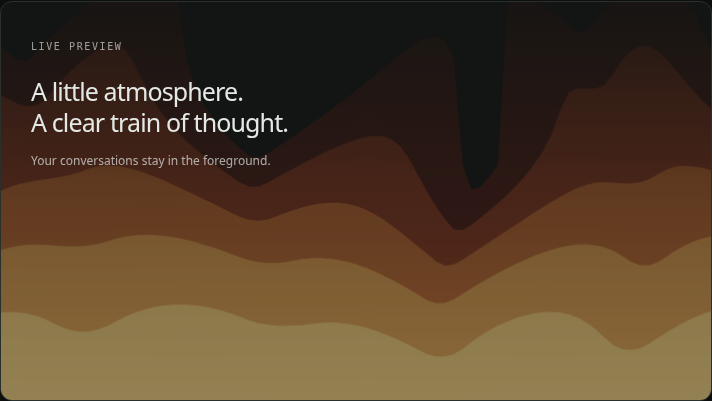
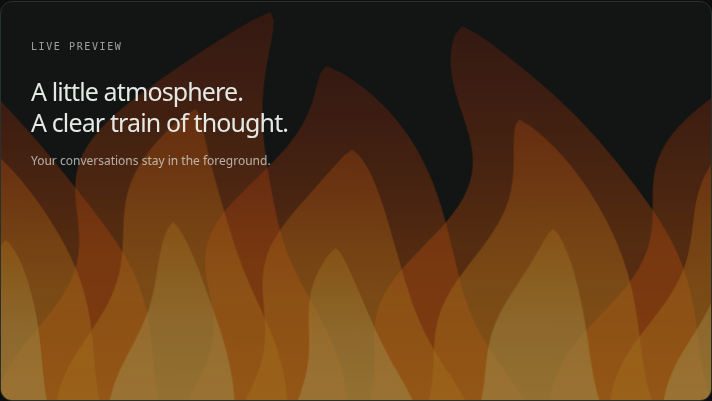
Reshape Fire as rooted warm flame tongues with curling tips

diff --git a/tests/fire.test.ts b/tests/fire.test.ts
@@ -1,58 +1,81 @@
 import { expect, it } from "vitest"
 import { createScene } from "../src/scenes"
-import { fireContours, fireLift, firePalette, FIRE_COLOR_CYCLE_SECONDS } from "../src/scenes-fire"
+import { fireFlame, fireLift, firePalette } from "../src/scenes-fire"
 import { drawing } from "./environment"
 
 const context = drawing as unknown as CanvasRenderingContext2D
 const gradients = () => drawing.createLinearGradient.mock.results.map(result => result.value.addColorStop.mock.calls)
 
-it("Fire carries its deformation upward and independently morphs its flame silhouettes", () => {
+it("Fire uses bottom-rooted tapered tongues with separate pointed tips, not horizontal wave bands", () => {
+  for (let flame = 0; flame < 5; flame++) for (let layer = 0; layer < 3; layer++) {
+    const shape = fireFlame(flame, 0, layer), root = shape[0], tip = shape.at(-1)!
+    expect(shape).toHaveLength(49)
+    expect(root.y).toBe(1.04)
+    expect(root.right - root.left).toBeGreaterThan(0.17)
+    expect(tip.left).toBe(tip.right)
+    expect(tip.y).toBeLessThan(root.y - 0.4)
+    expect(shape[40].right - shape[40].left).toBeLessThan((root.right - root.left) * 0.35)
+    expect(shape.every((section, index) => section.left <= section.right && (!index || section.y < shape[index - 1].y))).toBe(true)
+    if (layer) expect(tip.y).toBeGreaterThan(fireFlame(flame, 0, layer - 1).at(-1)!.y)
+  }
+})
+
+it("Fire's deformation travels upward and curls sideways without bobbing its entire silhouette", () => {
   for (const height of [0.1, 0.4, 0.8]) {
     expect(fireLift(height + 0.26 / 8 * 2, 7)).toBeCloseTo(fireLift(height, 5), 10)
   }
-  const before = fireContours(0), after = fireContours(10)
-  expect(after).not.toEqual(before)
-  const shifts = before[0].map((value, x) => Math.round((after[0][x] - value) * 1000))
-  expect(new Set(shifts).size).toBeGreaterThan(10)
-})
-
-it("Fire has broad bounded contours covering most of the canvas throughout its color cycle", () => {
-  for (let time = 0; time <= FIRE_COLOR_CYCLE_SECONDS; time += 5) {
-    const contours = fireContours(time)
-    expect(contours).toHaveLength(5)
-    const outer = contours[0]
-    expect(1 - outer.reduce((sum, y) => sum + y, 0) / outer.length).toBeGreaterThan(0.75)
-    expect(Math.min(...outer)).toBeLessThan(0.05)
-    for (const contour of contours) {
-      expect(contour).toHaveLength(81)
-      expect([...contour].every(y => Number.isFinite(y) && y >= 0 && y <= 1)).toBe(true)
-    }
+  for (let flame = 0; flame < 5; flame++) {
+    const before = fireFlame(flame, 0), after = fireFlame(flame, 10)
+    expect(after.map(section => section.y)).toEqual(before.map(section => section.y))
+    expect(after[0]).toEqual(before[0])
+    expect(after.at(-1)!.left).not.toBe(before.at(-1)!.left)
+    expect(after[24].right - after[24].left).not.toBe(before[24].right - before[24].left)
   }
 })
 
-it("Fire slowly cycles warm to cool as one narrow palette, never mixed warm/cool flames", () => {
-  expect(FIRE_COLOR_CYCLE_SECONDS).toBe(240)
+it("Fire's flame shapes occupy most of the canvas while leaving natural gaps between their tips", () => {
+  for (const time of [0, 10, 30, 60, 120, 240]) {
+    const shapes = Array.from({ length: 5 }, (_, flame) => fireFlame(flame, time))
+    let coverage = 0
+    for (let row = 0; row < 100; row++) {
+      const y = (row + 0.5) / 100
+      const spans = shapes.flatMap(shape => {
+        const index = shape.findIndex(section => section.y <= y)
+        if (index <= 0) return []
+        const a = shape[index - 1], b = shape[index], t = (a.y - y) / (a.y - b.y)
+        return [{ left: Math.max(0, a.left + (b.left - a.left) * t), right: Math.min(1, a.right + (b.right - a.right) * t) }]
+      }).sort((a, b) => a.left - b.left)
+      let end = 0
+      for (const span of spans) {
+        coverage += Math.max(0, span.right - Math.max(end, span.left)) / 100
+        end = Math.max(end, span.right)
+      }
+    }
+    expect(coverage).toBeGreaterThan(0.6)
+    expect(coverage).toBeLessThan(0.95)
+    expect(Math.min(...shapes.map(shape => shape.at(-1)!.y))).toBeLessThan(0.03)
+  }
+})
+
+it("Fire stays red/orange/yellow, with contrasting light/dark palettes and no cool color cycle", () => {
   for (const appearance of ["dark", "light"] as const) {
-    const warm = firePalette(0, appearance), cool = firePalette(120, appearance)
-    expect(warm.map(color => color.hue)).toEqual([5, 18, 32, 43, 55])
-    expect(cool.map(color => color.hue)).toEqual([165, 178, 192, 203, 215])
-    expect(firePalette(240, appearance)).toEqual(warm)
-    for (let time = 0; time < 240; time++) {
-      const hues = firePalette(time, appearance).map(color => color.hue)
-      expect(Math.max(...hues) - Math.min(...hues)).toBeCloseTo(50, 10)
-      expect(!(hues.some(hue => hue < 60) && hues.some(hue => hue >= 150))).toBe(true)
-      expect(Math.abs(firePalette(time + 0.1, appearance)[0].hue - hues[0])).toBeLessThan(0.21)
+    const palette = firePalette(appearance)
+    expect(palette).toHaveLength(4)
+    for (const [red, green, blue] of palette) {
+      expect(red).toBeGreaterThan(green)
+      expect(green).toBeGreaterThan(blue)
+      expect(red).toBeGreaterThan(blue * 1.8)
     }
   }
-  expect(firePalette(0, "light")).not.toEqual(firePalette(0, "dark"))
+  expect(firePalette("light")).not.toEqual(firePalette("dark"))
 })
 
-it("Fire uses only five smooth vector-gradient fills, with stable pause/theme/resize repainting", () => {
+it("Fire uses bounded smooth gradient geometry and preserves paused shapes across theme/resize changes", () => {
   const scene = createScene("fire")
   scene.resize(800, 600); scene.draw(context, 0.1, 1, "dark")
   const dark = gradients(), contour = drawing.lineTo.mock.calls.map(call => [...call])
-  expect(dark).toHaveLength(5)
-  expect(drawing.fill).toHaveBeenCalledTimes(5)
+  expect(dark).toHaveLength(15)
+  expect(drawing.fill).toHaveBeenCalledTimes(15)
   expect(drawing.drawImage).not.toHaveBeenCalled()
   expect(drawing.fillRect).not.toHaveBeenCalled()
   drawing.createLinearGradient.mockClear(); drawing.lineTo.mockClear()
@@ -68,8 +91,8 @@ it("Fire uses only five smooth vector-gradient fills, with stable pause/theme/re
   for (const [width, height] of [[1200, 600], [390, 844], [7680, 4320], [1, 1]]) {
     drawing.lineTo.mockClear()
     scene.resize(width, height); scene.draw(context, 0, 1)
-    expect(drawing.lineTo).toHaveBeenCalledTimes(410)
-    expect(drawing.lineTo.mock.calls.every(([x, y]) => x >= 0 && x <= width && y >= 0 && y <= height)).toBe(true)
+    expect(drawing.lineTo).toHaveBeenCalledTimes(1440)
+    expect(drawing.lineTo.mock.calls.every(([x, y]) => Number.isFinite(x) && x >= -width * 0.4 && x <= width * 1.4 && y >= 0 && y <= height * 1.04)).toBe(true)
   }
   scene.resize(800, 600); drawing.lineTo.mockClear(); scene.draw(context, 0, 1, "dark")
   expect(drawing.lineTo.mock.calls).toEqual(contour)

diff --git a/src/scenes-fire.ts b/src/scenes-fire.ts
@@ -1,80 +1,57 @@
 import { AmbientScene, type Appearance } from "./scene"
 
-export const FIRE_COLOR_CYCLE_SECONDS = 240
-const columns = 80, rows = 64, bands = 5
+const steps = 48
+const heights = [0.92, 1.015, 0.88, 0.98, 0.94]
+const layers = [{ height: 1, width: 1 }, { height: 0.76, width: 0.66 }, { height: 0.48, width: 0.36 }]
 
-/** One coordinated hue family at a time, never warm and cool flames together. */
-export function firePalette(time: number, appearance: Appearance) {
-  const phase = ((time % FIRE_COLOR_CYCLE_SECONDS) + FIRE_COLOR_CYCLE_SECONDS) % FIRE_COLOR_CYCLE_SECONDS
-  const cool = (1 - Math.cos(phase / FIRE_COLOR_CYCLE_SECONDS * Math.PI * 2)) / 2
-  const center = 25 + cool * 160
-  return [-20, -7, 7, 18, 30].map((offset, band) => ({
-    hue: center + offset,
-    saturation: appearance === "light" ? 58 : 68,
-    lightness: (appearance === "light" ? 34 : 36) + band * (appearance === "light" ? 5 : 8),
-  }))
+/** Fixed flame colors, never a hue wheel: red edges, orange bodies, yellow cores. */
+export function firePalette(appearance: Appearance) {
+  return appearance === "dark"
+    ? [[228, 53, 17], [250, 102, 14], [255, 164, 34], [255, 214, 109]] as const
+    : [[181, 48, 16], [205, 79, 10], [218, 129, 16], [210, 165, 42]] as const
 }
 
-/** Features move toward increasing height, i.e. up from the canvas bottom. */
-export function fireLift(height: number, time: number) {
-  return Math.sin(height * 8 - time * 0.26)
+/** A slow deformation travelling upwards, not a whole silhouette bobbing vertically. */
+export function fireLift(height: number, time: number, phase = 0) {
+  return Math.sin(height * 8 - time * 0.26 + phase)
 }
 
-/** Bounded contour sampling preserves the broad morphing silhouettes without a pixel grid. */
-export function fireContours(time: number) {
-  const contours = Array.from({ length: bands }, () => new Float64Array(columns + 1).fill(1))
-  const previous = new Float64Array(columns + 1)
-  const tongues = Array.from({ length: 5 }, (_, i) => ({
-    center: -0.02 + i * 0.26,
-    height: 1.02 + Math.sin(i * 2.1 + time * 0.09) * 0.12,
-    width: 0.23 + Math.sin(i * 1.7 - time * 0.07) * 0.035,
-    phase: i * 1.9,
-  }))
-  const row = tongues.map(() => ({ center: 0, width: 0, heat: 0 }))
-  for (let y = 0; y <= rows; y++) {
-    const rise = 1 - y / rows, lift = fireLift(rise, time)
-    for (let i = 0; i < tongues.length; i++) {
-      const tongue = tongues[i]
-      row[i].center = tongue.center + rise * (Math.sin(rise * 4 - time * 0.12 + tongue.phase) * 0.16
-        + Math.sin(rise * 7 - time * 0.19 + tongue.phase) * 0.035)
-      row[i].width = tongue.width * (1 - rise * 0.68)
-      row[i].heat = (tongue.height - rise) / tongue.height + lift * 0.045
-    }
-    for (let x = 0; x <= columns; x++) {
-      let heat = -1
-      for (const tongue of row) {
-        const distance = (x / columns - tongue.center) / tongue.width
-        const next = tongue.heat - distance * distance * 0.22
-        const blend = Math.max(0, 0.1 - Math.abs(heat - next)) / 0.1
-        heat = Math.max(heat, next) + blend * blend * 0.025
-      }
-      for (let band = 0; band < bands; band++) {
-        const level = (band + 0.5) / bands - 0.07
-        if (contours[band][x] !== 1 || heat < level) continue
-        contours[band][x] = y === 0 ? 0 : (y - 1 + (level - previous[x]) / (heat - previous[x])) / rows
-      }
-      previous[x] = heat
-    }
-  }
-  return contours
+export interface FlameSection { y: number; left: number; right: number }
+
+/** Bottom-rooted, tapering ribbons. Both sides meet at a sideways-curling pointed tip. */
+export function fireFlame(index: number, time: number, layer = 0): FlameSection[] {
+  const shape = layers[layer], phase = index * 1.93, root = -0.02 + index * 0.26
+  return Array.from({ length: steps + 1 }, (_, step) => {
+    const progress = step / steps, rise = progress * shape.height
+    const y = 1.04 - heights[index] * rise
+    const flow = fireLift(1.04 - y, time, phase)
+    const center = root + Math.sin(phase + time * 0.085) * rise ** 1.8 * 0.12
+      + Math.sin(rise * 5 - time * 0.2 + phase) * rise * 0.065
+    const width = 0.25 * shape.width * (1 - progress) ** 0.72
+      * (1 + flow * Math.sin(progress * Math.PI) * 0.16)
+    const asymmetry = flow * Math.sin(progress * Math.PI) * 0.08
+    return { y, left: center - width * (1 + asymmetry), right: center + width * (1 - asymmetry) }
+  })
 }
 
 export class Fire extends AmbientScene {
   protected paint(ctx: CanvasRenderingContext2D) {
-    const contours = fireContours(this.time), palette = firePalette(this.time, this.appearance)
-    // Like Aurora: large translucent gradient bands, no raster, stipple, or noise.
-    ctx.globalCompositeOperation = this.appearance === "dark" ? "screen" : "source-over"
-    for (let band = 0; band < contours.length; band++) {
-      const { hue, saturation, lightness } = palette[band]
-      const color = (alpha: number) => `hsla(${hue}, ${saturation}%, ${lightness}%, ${alpha})`
-      const gradient = ctx.createLinearGradient(0, this.height, 0, 0)
-      gradient.addColorStop(0, color(0.5))
-      gradient.addColorStop(0.55, color(0.32))
-      gradient.addColorStop(1, color(0.08))
+    const palette = firePalette(this.appearance)
+    // Independent nested flame tongues, not filled horizontal height-map contours.
+    // Source-over preserves reds/oranges instead of bleaching overlapping flames.
+    ctx.globalCompositeOperation = "source-over"
+    for (let layer = 0; layer < layers.length; layer++) for (let flame = 0; flame < heights.length; flame++) {
+      const sections = fireFlame(flame, this.time, layer), tip = sections.at(-1)!
+      const gradient = ctx.createLinearGradient(0, tip.y * this.height, 0, this.height * 1.04)
+      const color = (index: number, alpha: number) => `rgba(${palette[index].join(", ")}, ${alpha})`
+      gradient.addColorStop(0, color(layer, layer === 0 ? 0.28 : 0.38))
+      gradient.addColorStop(0.55, color(layer + 1, 0.48))
+      gradient.addColorStop(1, color(layer + 1, 0.58))
       ctx.fillStyle = gradient
-      ctx.beginPath(); ctx.moveTo(0, this.height)
-      for (let x = 0; x <= columns; x++) ctx.lineTo(x / columns * this.width, contours[band][x] * this.height)
-      ctx.lineTo(this.width, this.height); ctx.closePath(); ctx.fill()
+      ctx.beginPath(); ctx.moveTo(sections[0].left * this.width, sections[0].y * this.height)
+      for (let step = 1; step <= steps; step++) ctx.lineTo(sections[step].left * this.width, sections[step].y * this.height)
+      for (let step = steps - 1; step >= 0; step--) ctx.lineTo(sections[step].right * this.width, sections[step].y * this.height)
+      ctx.closePath(); ctx.fill()
     }
   }
 }

diff --git a/src/gui.tsx b/src/gui.tsx
@@ -188,7 +188,7 @@ export default Plugin.define({
     ctx.add(SettingsPage, {
       id: "wallpaper", title: "Conversation wallpaper", icon: "settings-gear",
       entries: [
-        { id: "background", title: "Wallpaper collection and uploaded images", keywords: "matrix rain clouds fireflies starfield aurora meteors night sky balls blockfall disco maze pixel train aquarium pond cardiogram river life plaza people constellations glass ocean embers coast boats orbits leaves contours tremor polygraph waveform earthquake rainbow color spectrum hue timestamp fire flame warm cool wallpaper gif animation dimming pause" },
+        { id: "background", title: "Wallpaper collection and uploaded images", keywords: "matrix rain clouds fireflies starfield aurora meteors night sky balls blockfall disco maze pixel train aquarium pond cardiogram river life plaza people constellations glass ocean embers coast boats orbits leaves contours tremor polygraph waveform earthquake rainbow color spectrum hue timestamp fire flame warm red orange yellow wallpaper gif animation dimming pause" },
       ],
       render: () => <Settings />,
     })

diff --git a/src/scenes.ts b/src/scenes.ts
@@ -45,7 +45,7 @@ export const collection: ReadonlyArray<{ id: BuiltinMode; title: string; descrip
   { id: "tremor", title: "Tremor", description: "Seismic-style vibrations · Decorative only" },
   { id: "polygraph", title: "Polygraph", description: "Three wavering traces · Decorative only" },
   { id: "rainbow", title: "Rainbow", description: "Solid color · Slow full-spectrum cycle" },
-  { id: "fire", title: "Fire", description: "Morphing flames · Broad rising color bands" },
+  { id: "fire", title: "Fire", description: "Curling flames · Red, orange, yellow" },
 ]
 
 export function wallpaperName(mode: string): string {

diff --git a/README.md b/README.md
@@ -41,7 +41,7 @@ A small collection of animated atmospheres and local image backgrounds, behind c
 | **Tremor** | Seismograph-style vibrations alternating between bursts and quieter intervals |
 | **Polygraph** | Three independently wavering, instrument-style traces |
 | **Rainbow** | One solid background color following a timestamp-synchronized hue cycle |
-| **Fire** | Smooth morphing flame bands, slowly cycling from yellow/red to blue/green |
+| **Fire** | Broad red/orange flames with curling tips and yellow cores, slowly flowing upward |
 | **Image** | A still or animated local image, displayed as-is |
 
 Each built-in wallpaper defines its own movement; there is no direction control. Select one from the gallery,
@@ -72,18 +72,18 @@ OpenCode Desktop installation. Your theme, fonts, and dimming setting may look d
 
 | Dark theme | Light theme |
 | --- | --- |
-| ![Broad terracotta, orange, and amber flame bands behind readable text in dark mode](docs/images/fire-dark.png) | ![Soft terracotta and warm pastel flame bands behind dark text in light mode](docs/images/fire-light.png) |
+| ![Tall, tapering red and orange flame tongues with yellow cores behind readable text in dark mode](docs/images/fire-dark.png) | ![Warm flame tongues and curling pointed tips behind dark text in light mode](docs/images/fire-light.png) |
 
-**Fire** takes its cue from Aurora's broad, unhurried, morphing color bands—not a realistic fireplace. Large flame
-tongues rise from the bottom and reach through most of the available width and height. Their silhouettes stretch,
-bend, merge, and relax rather than scrolling a fixed picture. Smooth, translucent vector gradients use the same
-coloring approach as Aurora: no dithering, pixel texture, sparks, rapid flicker, or smoke particles behind your text.
-The whole palette slowly moves from yellow/red to blue/green flames and back in four simulated minutes at 1× speed.
-All bands stay within one coordinated hue family at a time, rather than mixing warm and cool flames in the same frame.
-Dark mode uses luminous colors; light mode uses deeper, ink-like counterparts. These are stylized color moods, not
-a physical combustion simulation or an oxygen measurement. It follows
-OpenCode's appearance setting, including changes while paused, and shares the normal dimming, speed, pause, and reduced-motion
-controls. Aurora itself is unchanged.
+**Fire** uses five broad, tapering flame tongues with curling pointed tips and smaller orange/yellow cores inside.
+Their bases stay rooted below the canvas while slow deformation flows upward through their bodies and bends their tips
+sideways—not horizontal landscape bands or entire shapes bobbing up and down. Overlapping flames reach through most of
+the available background, with natural gaps around the tips. The palette stays **red, orange, and yellow**; there is no
+blue/green cycle. Like Aurora, the coloring uses smooth, translucent vector gradients: no dithering, pixel texture,
+sparks, rapid flicker, or smoke particles behind your text.
+
+This is stylized, relaxing fire, not a physical combustion simulation. Dark mode uses luminous warm colors; light mode
+uses deeper, ink-like counterparts. It follows OpenCode's appearance setting, including changes while paused, and
+shares the normal dimming, speed, pause, and reduced-motion controls. Aurora itself is unchanged.
 
 ### Rainbow · one slowly changing color
 
@@ -143,7 +143,7 @@ Maze scales the current match immediately, then generates a grid suited to the n
 - Clouds, fireflies, and stars automatically adapt to the app's light or dark appearance. Light mode uses blue-gray mist,
   amber fireflies, and ink-blue stars; the original dark palettes are preserved. Paused wallpapers and gallery thumbnails
   repaint when you switch themes, while uploaded images keep their original colors.
-- Fire uses five smooth vector-gradient bands with bounded contour sampling, independent of screen resolution; its warm-to-cool palette morphs with the flame shapes.
+- Fire uses five layered, tapering flame tongues with bounded vector geometry, independent of screen resolution; red/orange bodies and yellow cores stay warm as their shapes morph.
 - Settings persist across sessions and apply to all workspaces. No model calls, remote image requests, or uploads.
 - Command-palette actions to open settings, hide/show wallpaper, and pause/resume animation.
 
@@ -336,9 +336,9 @@ the browser also verifies that the heartbeat's peak stays at the same x coordina
 Rainbow tests verify a complete hue-wheel cycle, timestamp synchronization across new instances, speed scaling, paused
 repainting, and catch-up on resume. Browser checks inspect every canvas pixel for a uniform full-area fill and verify
 that navigating between the conversation and remounted settings does not reset its hue.
-Fire checks verify narrow coordinated warm-to-cool palettes, smooth gradient fills without dithering, broad coverage,
-upward deformation, changing silhouettes, bounded vector geometry, and paused resize/theme restoration.
-Browser checks also measure full-area Fire coverage.
+Fire checks verify tapering bodies and pointed tips, bottom-rooted silhouettes without vertical bobbing, upward
+deformation, fixed warm palettes, smooth gradient fills without dithering, broad coverage, bounded vector geometry,
+and paused resize/theme restoration. Browser checks also measure Fire coverage and verify its colors stay warm over time.
 
 These are not a live OpenCode Desktop installation test. Verify the plugin in your actual app version before
 relying on compatibility. No global OpenCode configuration is modified by the tests or build.

diff --git a/AGENTS.md b/AGENTS.md
@@ -9,7 +9,7 @@ Independent Git repository; parent is a workspace, not a monorepo.
 - Keep internal host selectors in `src/wallpaper.ts`. Fail closed when the expected timeline structure is absent.
 - Wallpaper never reads conversation text or changes message opacity, theme tokens, selection, scrolling, or pointer handling.
 - Thirty-two built-ins. Each owns its motion; do not expose direction controls. Gallery thumbnails are static. Only built-ins have speed controls; uploads display as-is without added movement or effects.
-- Fire follows Aurora's broad, slow, morphing-band philosophy but rises from the bottom across most of the canvas. Use smooth translucent vector gradients, never dithering or raster noise. Its whole palette slowly cycles from yellow/red to blue/green and back in 240 simulated seconds, maintaining one narrow hue family at a time rather than mixed warm/cool flames. Keep Aurora unchanged.
+- Fire uses five broad, bottom-rooted flame tongues with tapering bodies, curling pointed tips, and nested orange/yellow cores. Its slow deformation travels upward; do not bob entire silhouettes vertically or restore horizontal landscape/wave contours. Keep a fixed red/orange/yellow palette with theme-aware translucent vector gradients: no cool color cycling, dithering, raster noise, sparks, or flicker. Keep Aurora unchanged.
 - Rainbow is a single solid full-canvas color, not a spatial gradient or moving shapes. Derive hue from the current timestamp so new timelines/previews stay synchronized instead of restarting at red. It cycles all 360 hue degrees in 180 wall-clock seconds at 1×, with theme-appropriate lightness and shared speed. Still repaints freeze hue for pause/reduced motion/hidden states; resume catches up to the timestamp.
 - Display names are unique single words. Keep stored mode IDs stable when renaming copy; Mist is the soft clouds effect, Clouds is retro, and Image is the upload option.
 - Cardiogram must be a fixed line that spikes in place and rests flat between beats, never a horizontally scrolling waveform. Tremor and Polygraph are distinct procedural instrument-style traces. None reads sensors, typing, conversation content, medical data, or anyone's truthfulness; do not display fabricated measurements or diagnostic/detection claims.

diff --git a/CHANGELOG.md b/CHANGELOG.md
@@ -3,7 +3,14 @@
 Notable changes to Conversation Wallpaper. Releases are available as Git tags;
 the default branch can be installed and updated with the OpenCode CLI.
 
-## Unreleased (0.7.1)
+## Unreleased (0.7.2)
+
+- Reshape Fire as bottom-rooted, tapering flame tongues with curling pointed tips and nested orange/yellow cores, replacing horizontal wave/landscape contours.
+- Restore a fixed red/orange/yellow palette and remove the blue/green cycle.
+- Carry slow deformation upward through the flame bodies instead of bobbing entire silhouettes vertically; preserve smooth gradients without dithering.
+- Add shape/root/taper and warm-color persistence checks; refresh only Fire and gallery captures. Aurora and Rainbow are unchanged.
+
+## Preview (0.7.1)
 
 - Synchronize Rainbow's hue to the current timestamp so navigation/remounting does not restart it; paused stills remain frozen and resume catches up.
 - Replace Fire's dithered raster with smooth, translucent vector gradients like Aurora's.
